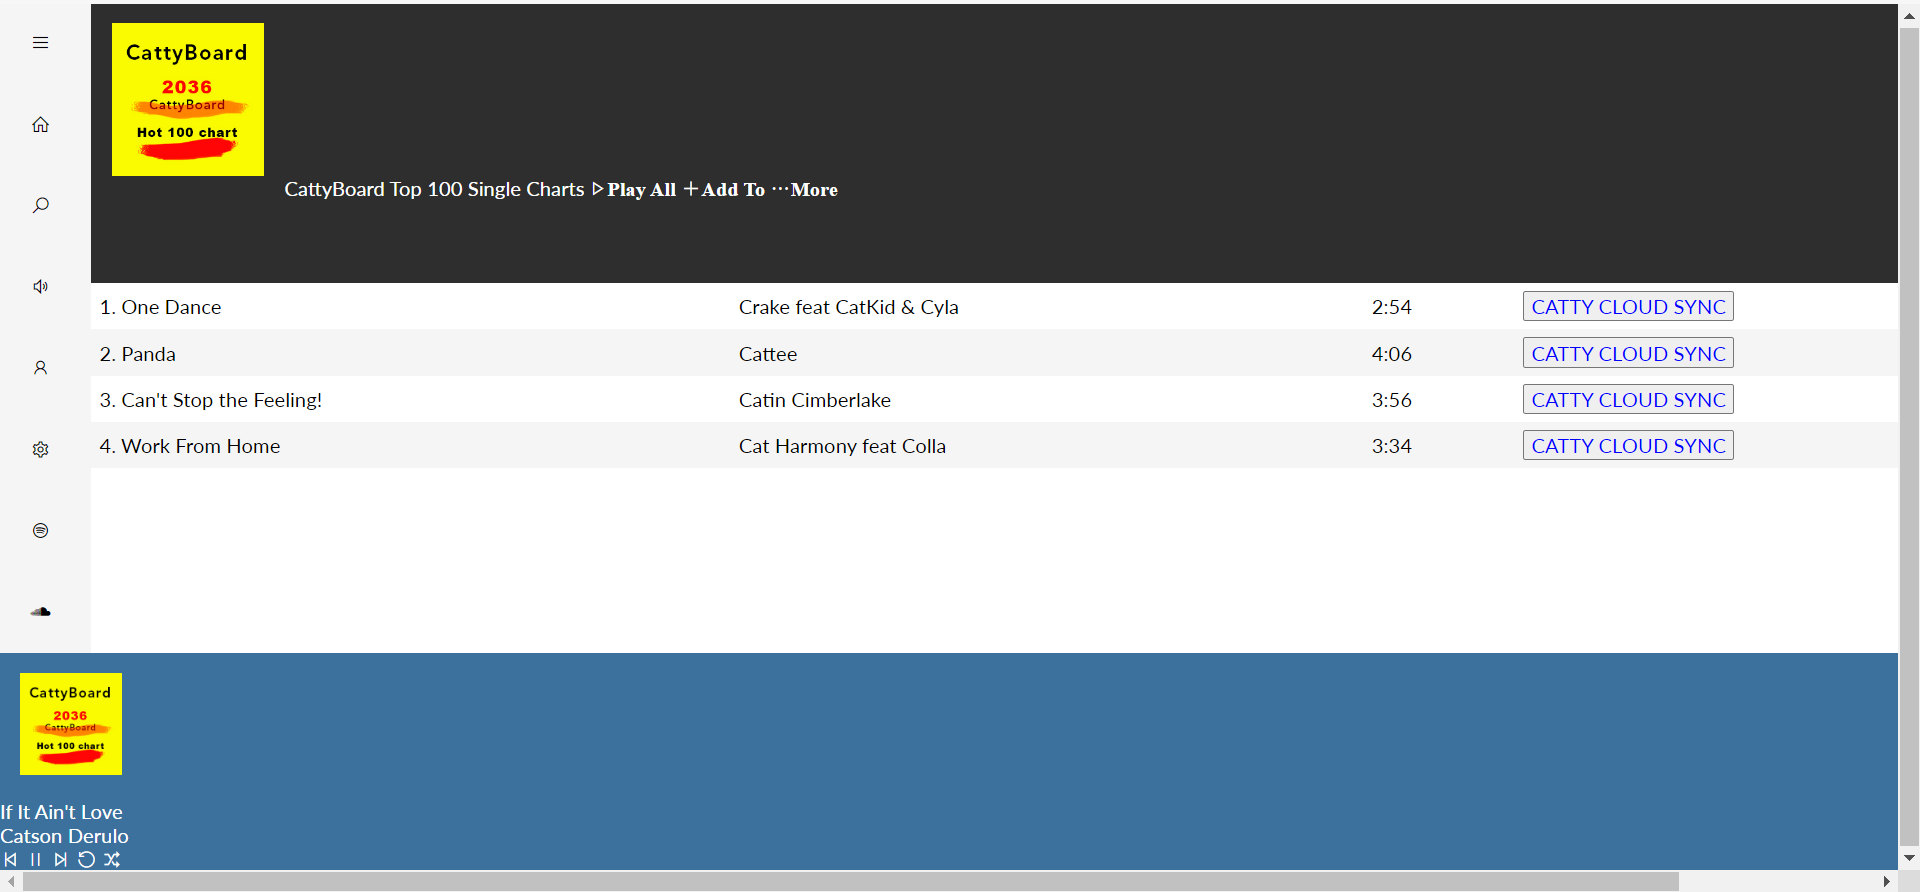
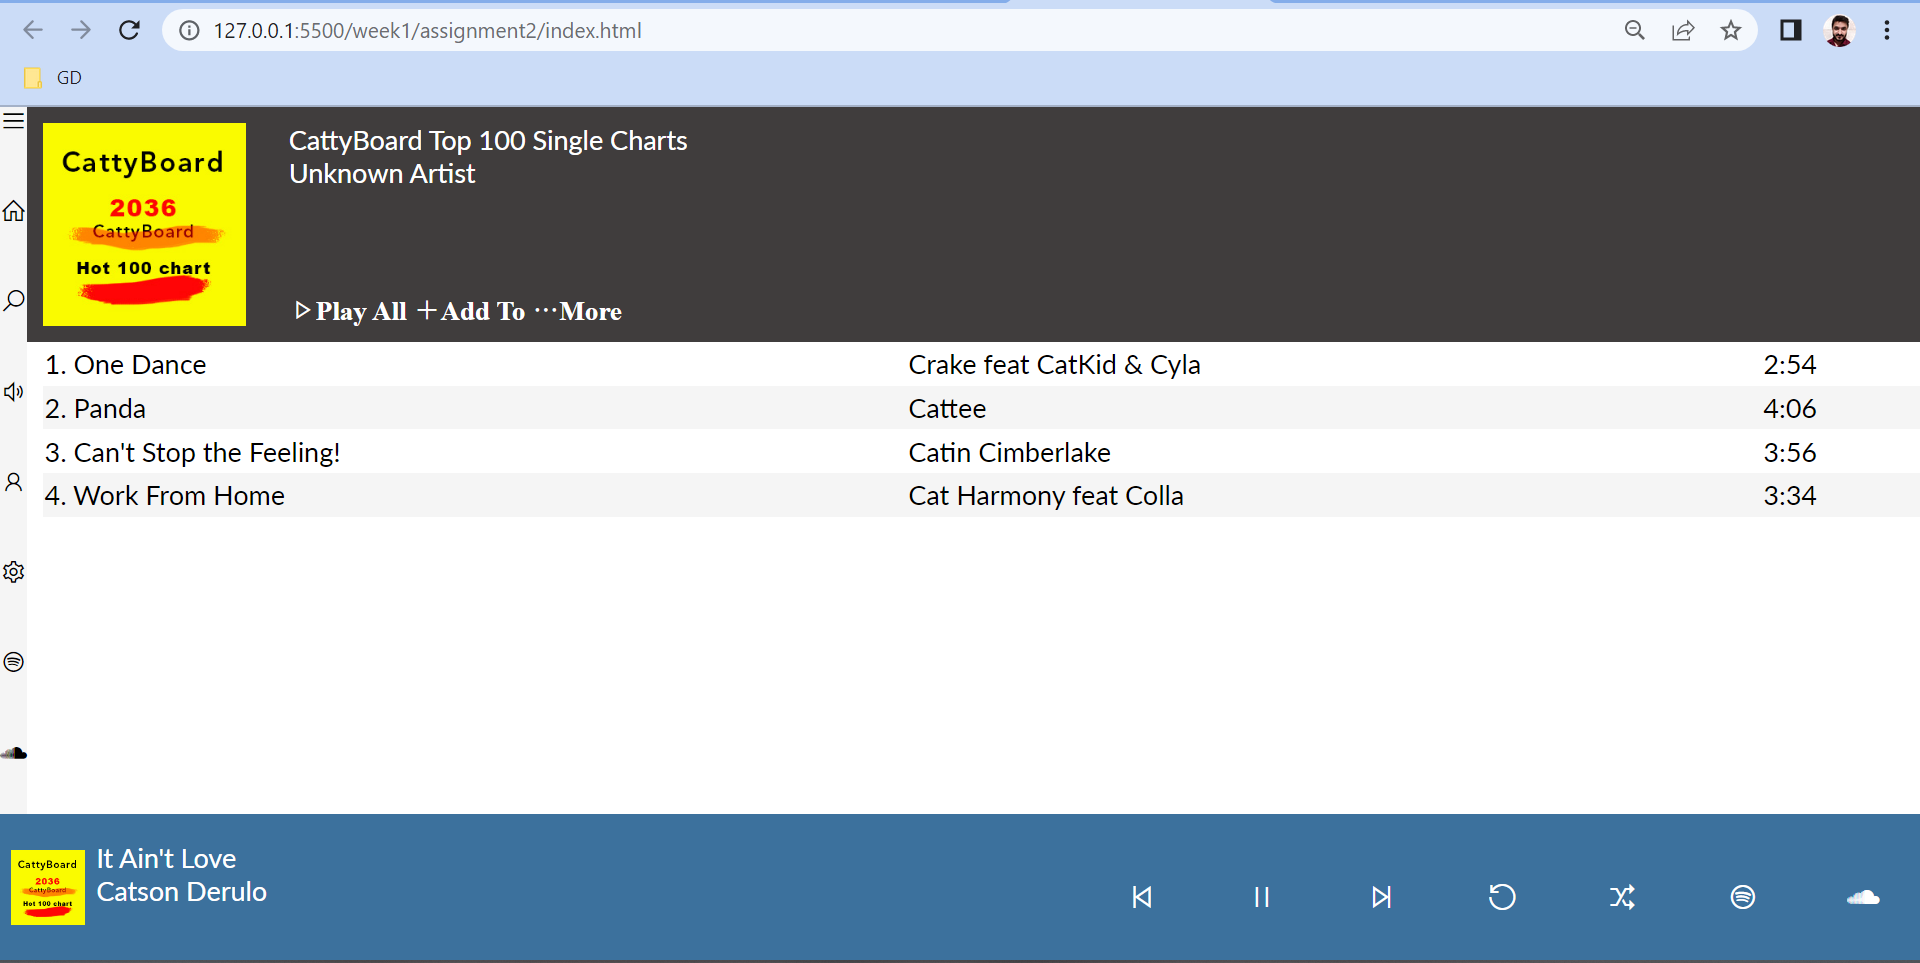
Achieved desired UI

diff --git a/week1/assignment2/index.html b/week1/assignment2/index.html
@@ -5,23 +5,14 @@
     <meta http-equiv="X-UA-Compatible" content="IE=edge">
     <meta name="viewport" content="width=device-width, initial-scale=1.0">
     <link rel="stylesheet" type="text/css" href="style.css"/>
-    <!-- <link rel="stylesheet" href="https://www.w3schools.com/w3css/4/w3.css"> -->
     <link rel="stylesheet"
         href="https://maxst.icons8.com/vue-static/landings/line-awesome/line-awesome/1.3.0/css/line-awesome.min.css">
     <link rel="stylesheet" media="screen" href="https://fontlibrary.org//face/lato" type="text/css" />
 </head>
 <body>
     <div class="grid-container">
-        <div class="header">
-            <span><img src="./assets/images/cattyboard.jpg" />CattyBoard Top 100 Single Charts</span>
-        <span>
-            <i class="las la-plus">Add To</i>
-            <i class="las la-play">Play All</i>
-            <i class="las la-ellipsis-h">More </i>
-        </span>
-        
-        </div>
-        <div class="sidenav">
+        <div class="content">
+            <div class="sidenav">
             <i class="las la-bars"></i></br>
             <i class="las la-home"></i></br>
             <i class="las la-search"></i></br>
@@ -30,7 +21,22 @@
             <i class="las la-cog"></i></br>
             <i class="lab la-spotify"></i></br>
             <i class="lab la-soundcloud"></i></br>
-        </div>
+            </div>
+            <div class="right">
+                <div class="header">
+                        <img src="./assets/images/cattyboard.jpg" height="150px"/>
+  
+            
+                <div class="right-header">
+                <span>CattyBoard Top 100 Single Charts<br>
+                Unknown Artist</span>
+                    <div>
+                    <i class="las la-play">Play All</i>
+                    <i class="las la-plus">Add To</i>
+                    <i class="las la-ellipsis-h">More </i>
+                </div>
+                </div>
+            </div>
         <div class="songsLibrary">
             <table>
             <tr>
@@ -59,25 +65,31 @@
             </tr>
             </table>
         </div>
+            </div>
+
+        </div>
+        
     
         <div class="footer">
-            
-            <span><img src="./assets/images/cattyboard.jpg"/></span>
+            <div class="left-footer">
+                <img src="./assets/images/cattyboard.jpg"/>
 
-            <p>
-                <span>If It Ain't Love</span><br>
+            <div>
+                 <span>It Ain't Love</span><br>
                 <span>Catson Derulo</span>
-            </p>
+            </div>
+            </div>
             
-            <span class="footer-buttons">
-                <i class="las la-step-backward"></i>
-                <i class="las la-pause"></i>
-                <i class="las la-step-forward"></i>
-                <i class="las la-undo-alt"></i>
-                <i class="las la-random"></i>
-                <i class="lab la-spotify"></i>
-                <i class="lab la-soundcloud"></i>
-            </span>    
+            
+            <div class="footer-buttons">
+                <i class="las la-step-backward icon"></i>
+                <i class="las la-pause icon"></i>
+                <i class="las la-step-forward icon"></i>
+                <i class="las la-undo-alt icon"></i>
+                <i class="las la-random icon"></i>
+                <i class="lab la-spotify icon"></i>
+                <i class="lab la-soundcloud icon"></i>
+            </div>    
         </div>
     </div>
 </body>

diff --git a/week1/assignment2/style.css b/week1/assignment2/style.css
@@ -5,86 +5,99 @@
   margin: 0;
 }
 
+.header {
+  background-color: rgb(64, 61, 61);
+  color: white;
+  overflow: hidden;
+  display: flex;
+}
+
+.header img {
+  padding: 12px;
+}
+
+.right-header {
+  padding-top: 12px;
+  padding-bottom: 12px;
+}
+
 table {
   border-collapse: collapse;
   width: 100em;
-  margin-bottom: 100px;
+  margin-bottom: 220px;
+  margin-left: 12px;
 }
 
 td,
 th {
   text-align: left;
-  padding: 8px;
 }
 
 tr:nth-child(even) {
   background-color: whitesmoke;
 }
 
-.header {
-  grid-area: header;
-  background-color: rgb(47, 46, 46);
-  /* height: 200px; */
-  color: white;
-}
-
-/* .header>div{
-    float: left;
-} */
-
-.header img {
-  inline-size: 150px;
-  padding: 20px;
-}
-
 .sidenav {
-  grid-area: menu;
-  /* background-color: rgb(172, 168, 168); */
+  display: flex;
+  flex-direction: column;
+  justify-content: space-between;
   background-color: whitesmoke;
   color: black;
-  width: fit-content;
 }
 
-.songsLibrary {
-  grid-area: main;
-  /* background-color: greenyellow; */
+.grid-container {
+  height: 100vh;
+  width: 100vw;
+  overflow: hidden;
+  display: flex;
+  flex-direction: column;
 }
 
-button {
-  color: blue;
-  align-self: right;
+.content {
+  display: flex;
+  flex: 1;
+  height: calc(100vh-150px);
 }
 
-.sidenav > i {
-  padding: 30px;
-  margin: 0;
-  width: 30px;
-  /* background-color: yellow; */
-}
 .footer {
-  grid-area: footer;
   background-color: rgb(60, 113, 157);
   color: white;
-  /* height: 150px; */
+  height: 150px;
+  overflow: hidden;
+  display: flex;
+  justify-content: space-between;
 }
 
-.footer img {
-  inline-size: 100px;
-  padding: 20px;
+.left-footer {
+  display: flex;
+}
+
+.left-footer img {
+  height: 80%;
+  margin: auto;
+  padding-left: 8px;
+  padding-right: 8px;
+}
+
+.left-footer {
+  padding-top: 20px;
+  padding-bottom: 20px;
+}
+
+.icon {
+  font-size: 24px;
+  display: flex;
+  height: 100%;
+  padding: 30px;
+}
+
+.right-header {
+  display: flex;
+  flex-direction: column;
+  justify-content: space-between;
+  margin-left: 20px;
 }
 
 .footer-buttons {
-  justify-content: space-evenly;
-  /* text-align: right; */
-}
-.grid-container {
-  display: grid;
-  grid-template-areas:
-    "menu header header header"
-    "menu main main main"
-    "footer footer footer footer";
-}
-
-.grid-container > div {
-  font-size: 10px;
+  padding-top: 20px;
 }

diff --git a/week1/assignment2/README.md b/week1/assignment2/README.md
@@ -10,9 +10,7 @@ Week 1 assignment.
 
 ## Actual Result
 
-- Taken at a 75% zoom level.
-
-![Actual Result](./assets/images/expectedResult.PNG "Actual Result")
+![Actual Result](./assets/images/actualResult.PNG "Actual Result")
 
 - Features :
   A simple webpage built using HTML, CSS.
